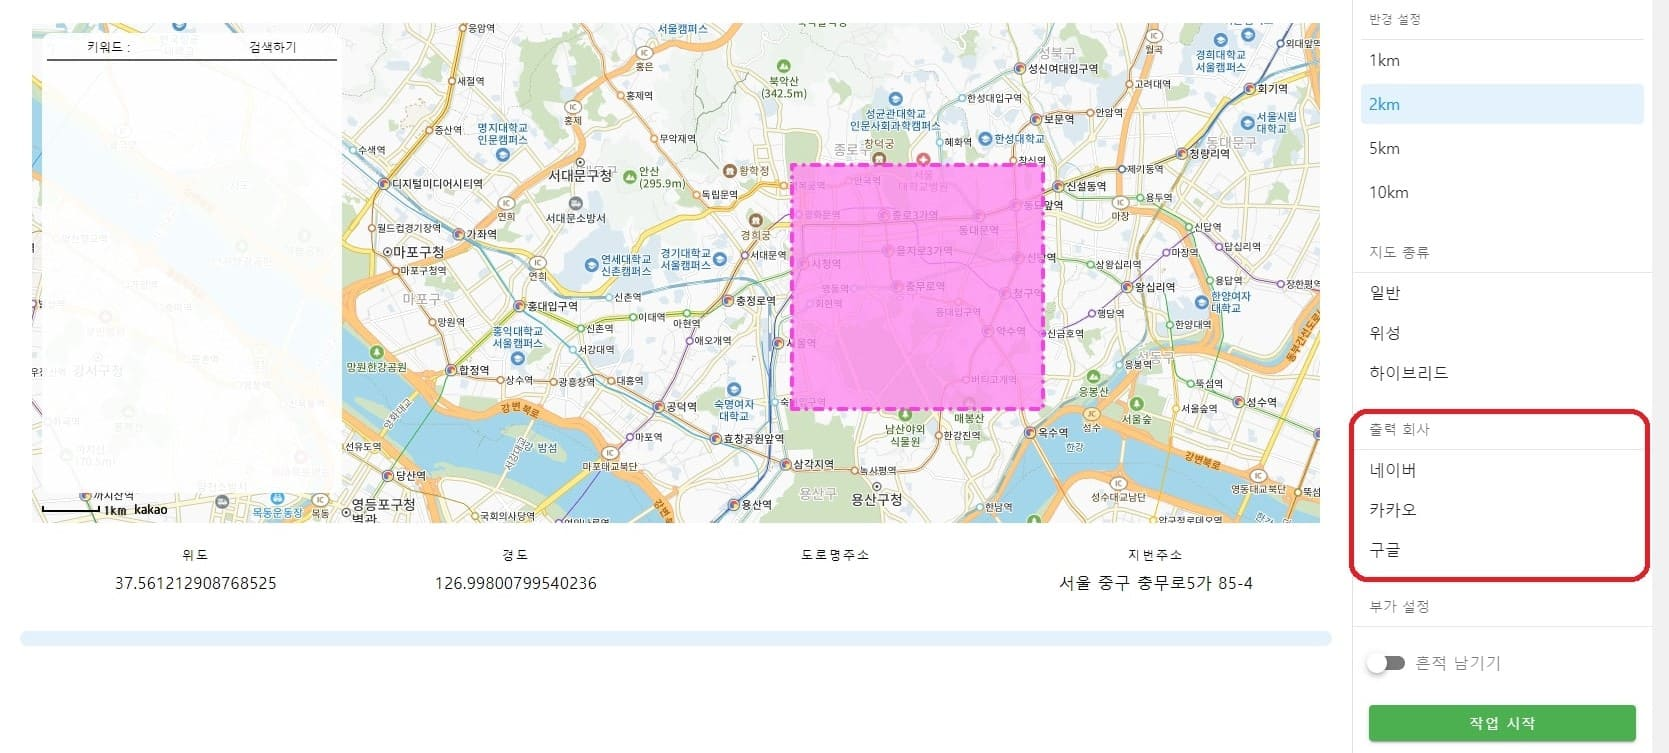
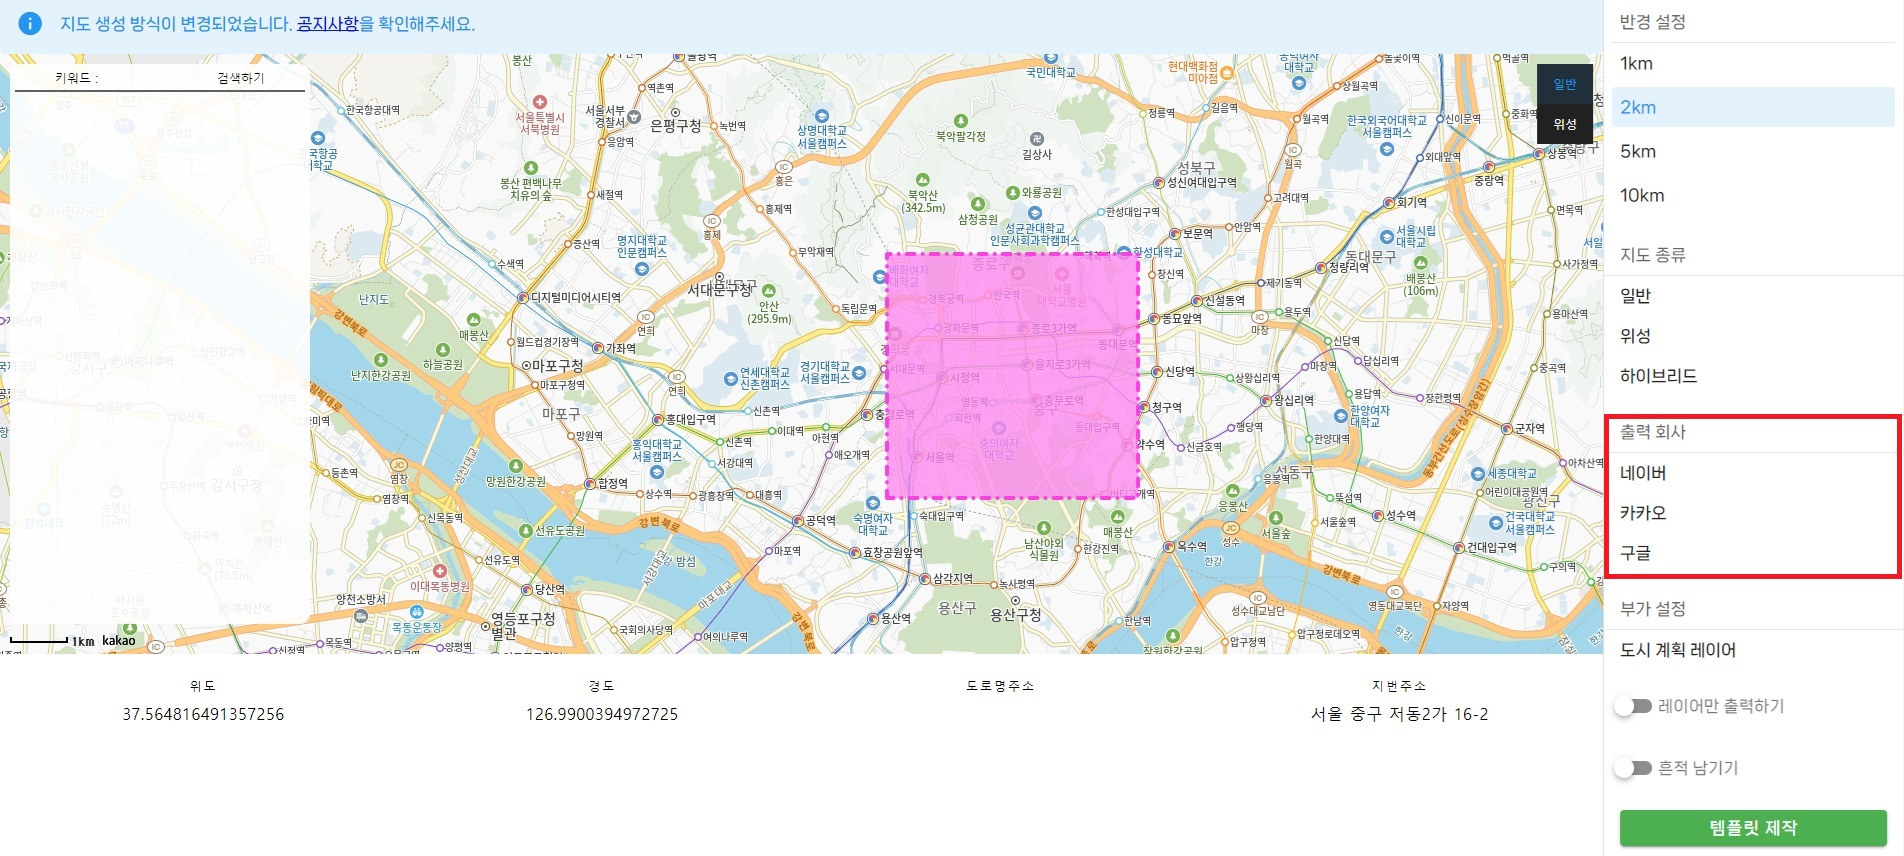
Feat/사용법 최신화 (#47)
* 좌표 탐색 이미지 교체

* 반경 설정 이미지 교체

* 지도 선택 이미지 교체

* 회사 설정 이미지 교체

* 결과 출력 이미지 교체

* 폰트 및 배치 개선

* 문구 수정

diff --git a/src/components/manual/BeforeUse.vue b/src/components/manual/BeforeUse.vue
@@ -1,68 +1,87 @@
 <template>
-    <v-card elevation="0">
-        <v-card-title class="text-h5">사용 전</v-card-title>
+  <v-card elevation="0">
+    <br>
+    <p>
+      본 사이트는 데스크탑 환경에 맞게 이루어져 있습니다.
+      원활한 서비스 이용을 위해서는 모바일 사용을 지양해 주세요.
+    </p>
+    <br>
+    <p>
+      현재 지원중인 브라우저 목록입니다.
+      만약 서비스 이용에 어려움이 있다면, 호환 브라우저 목록을 확인해 주세요.
+    </p>
+    <br>
 
-        <v-card-subtitle>환경</v-card-subtitle>
-        <v-card-text>
-            본 사이트는 데스크탑 환경에 맞게 이루어져 있습니다.
-            원활한 서비스 이용을 위해서는 모바일 사용을 지양해 주세요.
-        </v-card-text>
+    <v-sheet>
+      <v-table>
+        <thead>
+        <tr>
+          <th class="text-left">
+            이름
+          </th>
+          <th class="text-left">
+            지원 여부
+          </th>
+        </tr>
+        </thead>
+        <tbody>
+        <tr v-for="item in browser" :key="item.name">
+          <td>{{ item.name }}</td>
 
-        <v-card-subtitle>브라우저</v-card-subtitle>
-        <v-card-text>
-            현재 지원중인 브라우저 목록입니다.
-            만약 서비스 이용에 어려움이 있다면, 호환 브라우저 목록을 확인해 주세요.
-        </v-card-text>
 
-        <v-sheet>
-            <v-table>
-                <thead>
-                    <tr>
-                        <th class="text-left">
-                            이름
-                        </th>
-                        <th class="text-left">
-                            지원 여부
-                        </th>
-                    </tr>
-                </thead>
-                <tbody>
-                    <tr v-for="item in browser" :key="item.name">
-                        <td>{{ item.name }}</td>
+          <td>
+            <v-chip :color="item.status === 'O' ? 'info' : 'error'">
+              {{ item.status }}
+            </v-chip>
+          </td>
+        </tr>
+        </tbody>
+      </v-table>
+    </v-sheet>
 
-                        
-                        <td>
-                            <v-chip :color="item.status === 'O' ? 'info' : 'error'">
-                                {{ item.status }}
-                            </v-chip>
-                               </td>
-                    </tr>
-                </tbody>
-            </v-table>
-        </v-sheet>
-
-    </v-card>
+  </v-card>
 </template>
 
 
 <script>
 export default {
-    name: 'BeforeUse',
+  name: 'BeforeUse',
 
-    data() {
-        return {
-            browser: [
-            { name: "구글 크롬", status: "O" },
-                { name: "마이크로소프트 엣지", status: "O" },
-                { name: "파이어폭스", status: "O" },
-                { name: "삼성 모바일 인터넷", status: "O" },
-                { name: "인터넷 익스플로러", status: "X" },
-                { name: "사파리 모바일", status: "X" },
-                { name: "카카오 인앱 브라우저", status: "X" },
-               
-            ],
-        }
+  data () {
+    return {
+      browser: [
+        {
+          name: '구글 크롬',
+          status: 'O'
+        },
+        {
+          name: '마이크로소프트 엣지',
+          status: 'O'
+        },
+        {
+          name: '파이어폭스',
+          status: 'O'
+        },
+        {
+          name: '삼성 모바일 인터넷',
+          status: 'O'
+        },
+        {
+          name: '인터넷 익스플로러',
+          status: 'X'
+        },
+        {
+          name: '사파리 모바일',
+          status: 'X'
+        },
+        {
+          name: '카카오 인앱 브라우저',
+          status: 'X'
+        },
 
+      ],
     }
+
+  }
 }
 </script>

diff --git a/src/components/manual/PrintResult.vue b/src/components/manual/PrintResult.vue
@@ -1,25 +1,21 @@
 <template>
   <v-card elevation="0">
-
-    <v-card-title class="text-h5">
-      결과 출력
-    </v-card-title>
-
     <v-card elevation="0">
       <v-img :src="start"></v-img>
     </v-card>
 
-    <v-card-text>
-      다양한 부가 설정과 함께 최종 이미지 템플릿을 선택할 수 있습니다. 작업 시작 버튼을 누르면 설정된 값들을 토대로 지도 템플릿을 제작해줍니다.
-    </v-card-text>
-    <v-card-text>
-      본 서비스는 위성 지도 이미지의 템플릿을 제공하는 기능만 수행합니다.
-    </v-card-text>
 
-    <v-card-text>
-      이 서비스에서 생성된 이미지를 저장하거나 캡처하는 행위는 전적으로 사용자의 책임 하에
-      이루어집니다. 당사는 이와 관련된 어떠한 법적 책임이나 손해에 대해 책임지지 않음을 알려드립니다.
-    </v-card-text>
+    <p>다양한 부가 설정과 함께 최종 이미지 템플릿을 선택할 수 있습니다. 템플릿 제작 버튼을 누르면 설정된 값들을 토대로 지도 템플릿을 제작해줍니다.</p>
+    <br>
+
+    <p> 24.09.08 이후로 본 서비스는 위성 지도 이미지의 템플릿을 제공하는 기능만 수행합니다. <a href="https://kmapshot.com/notice/detail/36">관련 링크</a>
+    </p>
+    <br>
+    <p>
+      이 서비스에서 생성된 이미지를 저장하거나 캡처하는 행위는 전적으로 사용자의 책임 하에 이루어집니다.
+    </p>
+    <br>
+    <p>당사는 이와 관련된 어떠한 법적 책임이나 손해에 대해 책임지지 않음을 알려드립니다.</p>
   </v-card>
 </template>
 

diff --git a/src/components/manual/CapturePoint.vue b/src/components/manual/CapturePoint.vue
@@ -1,34 +1,32 @@
 <template>
+  <v-card elevation="0">
     <v-card elevation="0">
-        <v-card-title class="text-h5">좌표 탐색</v-card-title>
-
-        <v-card elevation="0">
-            <v-img :src="main" cover></v-img>
-        </v-card>
-
-        <v-card-text>
-            지도의 원하는 위치에 마우스 클릭을 하면 해당 지점이 캡쳐할 사진의 중심 좌표로 지정되며, 
-            보라색으로 대략적인 범위가 표시됩니다
-        </v-card-text>
-
-        <v-card-text>
-            지도를 <strong>왼쪽 클릭</strong>하여 중심 좌표 설정을 마무리해야 원활한 진행이 가능합니다.
-        </v-card-text>
-       
-
+      <v-img :src="main" cover></v-img>
     </v-card>
+
+    <p>
+      지도의 원하는 위치에 마우스 클릭을 하면 해당 지점이 캡쳐할 사진의 중심 좌표로 지정되며,
+      보라색으로 대략적인 캡쳐 범위가 표시됩니다
+    </p>
+    <br>
+    <p>
+      지도를 <strong>왼쪽 클릭</strong>하여 중심 좌표 설정을 마무리해야 원활한 진행이 가능합니다.
+    </p>
+
+
+  </v-card>
 </template>
 
 <script>
 import main from '@/assets/img/manual/main.jpg'
 
 export default {
-    name: 'CapturePoint',
+  name: 'CapturePoint',
 
-    data() {
-        return {
-            main: main,
-        }
+  data () {
+    return {
+      main: main,
     }
+  }
 }
 </script>

diff --git a/src/components/manual/ChooseMapType.vue b/src/components/manual/ChooseMapType.vue
@@ -1,18 +1,19 @@
 <template>
+  <v-card elevation="0">
     <v-card elevation="0">
-        <v-card-title class="text-h5">지도 선택</v-card-title>
-        <v-card elevation="0">
-            <v-img :src="maptypes"></v-img>
-
-        </v-card>
-
-        <v-card-text>
-            수집할 지도의 종류를 설정합니다. 도형, 기호 등으로 도식화된 일반 지도, 위성 지도, 
-            위성 지도에 위치와 지물 명칭이 같이 표시되는 하이브리드 3가지가 존재합니다.
-        </v-card-text>
-
+      <v-img :src="maptypes"></v-img>
 
     </v-card>
+
+    <p>
+      수집할 지도의 종류를 설정합니다.
+    </p>
+    <br>
+    <p>
+      도형, 기호 등으로 도식화된 일반 지도, 위성 사진으로만 구성된 위성 지도, 위성 지도에 위치와 지물 명칭이 같이 표시되는 하이브리드 3가지가 존재합니다.
+    </p>
+
+  </v-card>
 </template>
 
 <script>
@@ -20,12 +21,12 @@
 import maptypes from '@/assets/img/manual/type.jpg'
 
 export default {
-    name: 'ChooseMapType',
+  name: 'ChooseMapType',
 
-    data() {
-        return {
-            maptypes: maptypes
-        }
+  data () {
+    return {
+      maptypes: maptypes
     }
+  }
 }
 </script>

diff --git a/src/components/manual/ChooseRange.vue b/src/components/manual/ChooseRange.vue
@@ -1,32 +1,31 @@
 <template>
+  <v-card elevation="0">
     <v-card elevation="0">
-        <v-card-title class="text-h5"> 반경 설정</v-card-title>
-        <v-card elevation="0">
-            <v-img :src="range"></v-img>
-
-        </v-card>
-
-        <v-card-text>
-            지도가 수집될 범위의 반경을 설정합니다.
-        </v-card-text>
-        
-        <v-card-text>
-            1km, 2km, 5km, 10km 4가지가 존재하며 반경이 넓어질수록 사진의 화질은 낮아집니다.
-        </v-card-text>
+      <v-img :src="range"></v-img>
 
     </v-card>
+
+    <p>
+      지도가 수집될 범위의 반경을 설정합니다.
+    </p>
+    <br>
+    <p>
+      1km, 2km, 5km, 10km 4가지가 존재하며 반경이 넓어질수록 사진의 화질은 낮아집니다.
+    </p>
+
+  </v-card>
 </template>
 
 <script>
 import range from '@/assets/img/manual/range.jpg'
 
 export default {
-    name: 'ChooseRange',
+  name: 'ChooseRange',
 
-    data() {
-        return {
-            range: range
-        }
+  data () {
+    return {
+      range: range
     }
+  }
 }
 </script>

diff --git a/src/components/manual/ChooseCompany.vue b/src/components/manual/ChooseCompany.vue
@@ -1,28 +1,27 @@
 <template>
+  <v-card elevation="0">
     <v-card elevation="0">
-        <v-card-title class="text-h5"> 회사 설정</v-card-title>
-        <v-card elevation="0">
-            <v-img :src="company"></v-img>
+      <v-img :src="company"></v-img>
 
-        </v-card>
-
-        <v-card-text>
-            출력할 지도의 회사 종류를 설정합니다. 네이버, 카카오, 구글 3가지가 존재합니다.
-        </v-card-text>
-       
     </v-card>
+
+    <p>
+      출력할 지도의 회사 종류를 설정합니다. 네이버, 카카오, 구글 3가지가 존재합니다.
+    </p>
+
+  </v-card>
 </template>
 
 <script>
 import company from '@/assets/img/manual/company.jpg'
 
 export default {
-    name: 'ChooseCompany',
+  name: 'ChooseCompany',
 
-    data() {
-        return {
-            company: company
-        }
+  data () {
+    return {
+      company: company
     }
+  }
 }
 </script>
